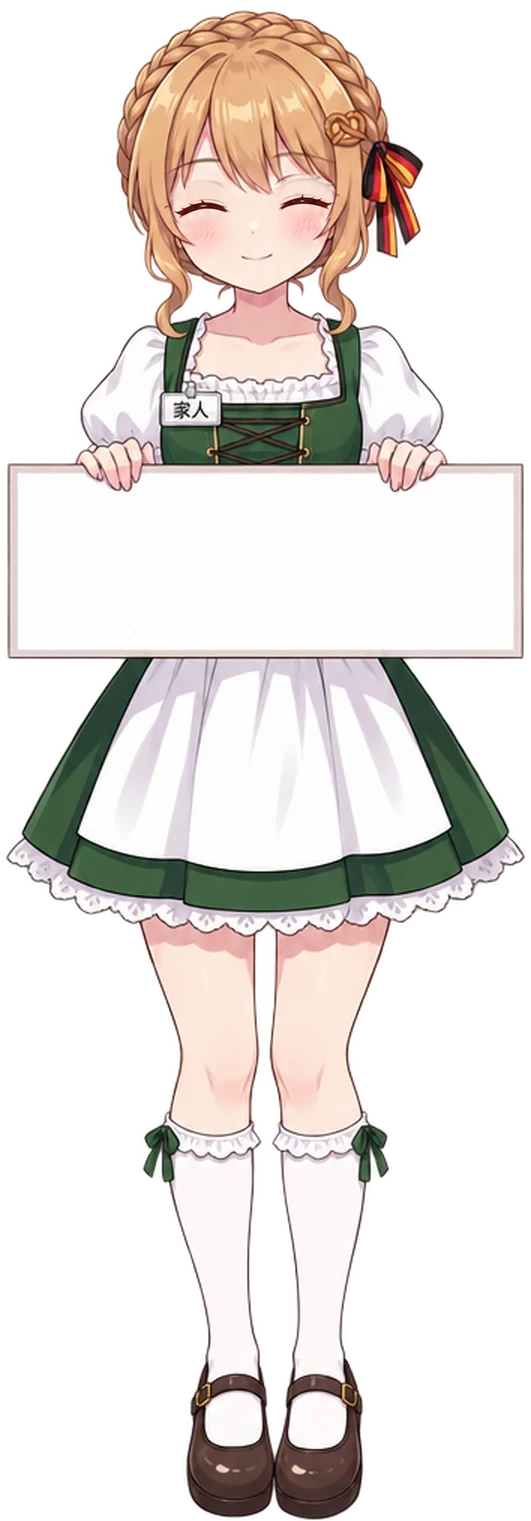
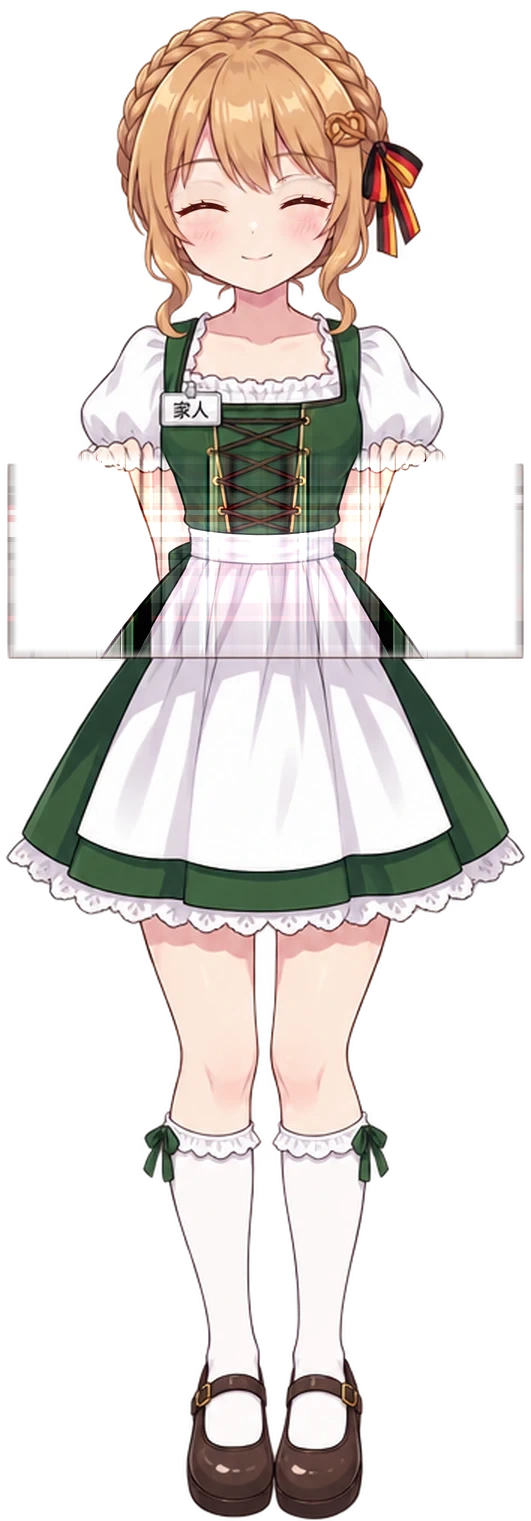
二次元皮肤：立绘去掉手里那块牌子（改由 CSS 看板 + 手层呈现），8 台无人物机用通用人物
- 四台专属立绘换成「无牌」版：人物/姿势/服装/配色/铭牌等设计元素不变，只去掉手里那块白牌子，
  双手保持扶板姿势与高度；仍是一张完整连续整身图；闭眼帧同步。新增通用人物 generic（中性、
  无国别/品牌元素），名单以外的节点统一落到它，12 台在二次元皮肤下都有人物。
- 手蒙版按新图重抠：剔除旧牌子混进手层的白面/灰描边/深棕上沿（否则手上会横着一条线），
  逐像素按同行邻近肤色补色；手层顶部渐入 + 板沿一圈极软接触阴影。
- CSS：看板去掉 2px 实线边框（边框会横穿压在板沿上的手指），改由底色 + 左右极淡过渡 + 落影区分；
  收起态板条 108px（整块盖住原图牌子的位置，不露补画接缝）；看板 min-height 兜底 + 竖向 flex
  铺到卡底；夜版压低一档改为 0.93 + 脚下冷光 + 辅助文字提亮。
- 测试同步：ui-smoke 改判「名单外也要有 generic 立绘」、无边框、夜版 0.93。

Changed region(s): [[0.0, 0.2781, 0.9642, 0.4326], [0.9642, 0.309, 0.9944, 0.4326], [0.904, 0.4017, 0.9341, 0.4326]]

diff --git a/web/anime.css b/web/anime.css
@@ -626,14 +626,30 @@ html[data-skin="anime"] .anime-cast {
 html[data-skin="anime"] .anime-cast[data-cast="jp-nosla-gen2"],
 html[data-skin="anime"] .anime-cast[data-cast="de-nosla-fra"],
 html[data-skin="anime"] .anime-cast[data-cast="us-vmiss-tri"],
-html[data-skin="anime"] .anime-cast[data-cast="us-bwh-dc9"] {
+html[data-skin="anime"] .anime-cast[data-cast="us-bwh-dc9"],
+html[data-skin="anime"] .anime-cast[data-cast="generic"] {
   background-image: var(--cast-art-url);
 }
 
 /* 夜版：人物与双手一起压一档亮度（同一张图、同一套处理，手才不会与手腕断色）。 */
 html[data-skin="anime"][data-theme="dark"] .anime-cast,
 html[data-skin="anime"][data-theme="dark"] .anime-hands {
-  filter: brightness(0.86) saturate(0.94);
+  /* 夜版只轻微压一档：压太狠时深色的鞋 / 裤和夜色糊在一起（gpt 提的对比度问题）。 */
+  filter: brightness(0.93) saturate(0.97);
+}
+
+/* 夜版在她脚下垫一层很淡的冷光：深色鞋 / 裤与夜色之间留出轮廓，不再糊成一片。 */
+html[data-skin="anime"][data-theme="dark"] .node-card[data-cast] {
+  background-image:
+    radial-gradient(58% 42% at 50% 26%, color-mix(in srgb, var(--cast-accent) 18%, transparent), transparent 72%),
+    radial-gradient(74% 34% at 50% 100%, color-mix(in srgb, var(--cast-accent) 16%, transparent), transparent 72%),
+    radial-gradient(92% 36% at 50% 101%, rgb(255 255 255 / 0.28), transparent 78%);
+}
+
+/* 夜版板面上的辅助文字（副标 / 说明）提一档亮度：深板面上灰字对比度偏低。 */
+html[data-skin="anime"][data-theme="dark"] .node-card[data-cast] {
+  --muted: #c2c9dd;
+  --subtle: #9aa3bd;
 }
 
 /* 卡片 = 她站着的那张牌面。浅色下牌子是白面深字，夜版里牌子跟着夜色变深，
@@ -705,9 +721,10 @@ html[data-skin="anime"] .node-card[data-cast="jp-nosla-gen2"] {
   --cast-hands-url: url("/anime/jp-nosla-gen2-hands.webp");   /* 双手层：压在看板上沿的那双手 */
   --cast-top-frac: 0.302614;   /* 牌子上外沿 = 463/1530（立绘高 1530） */
   --cast-bot-frac: 0.438562;   /* 牌子下外沿 = 671/1530 */
-  --cast-figure-h: 636.66px;   /* 图高 = (461 − 3 − 14) / (1 − 0.302614) */
-  --cast-board-top: 201.66px;  /* 板顶 = 12 + 图高 × 0.302614 − 3（板唇） */
-  --cast-plate-h: 92.55px;     /* 板条高 = 图高 × (0.438562 − 0.302614) + 2 × 3 */
+  --cast-figure-h: 626.63px;   /* 图高 = (461 − 3 − 14) / (1 − 0.302614) */
+  --cast-board-top: 195.65px;  /* 板顶 = 12 + 图高 × 0.302614 − 3（板唇） */
+  --cast-board-min: 457.00px;  /* 板面基准高（min-height 兜底；与 app.js BOARD_H 同值） */
+  --cast-plate-h: 108.00px;     /* 板条高 = 图高 × (0.438562 − 0.302614) + 2 × 3 */
   --cast-board: #ffe7f1;
   --cast-cell: rgb(255 255 255 / 0.58);
   --cast-line: #f6b1cc;
@@ -727,9 +744,10 @@ html[data-skin="anime"] .node-card[data-cast="de-nosla-fra"] {
   --cast-hands-url: url("/anime/de-nosla-fra-hands.webp");
   --cast-top-frac: 0.305062;   /* 牌子上外沿 = 464/1521 */
   --cast-bot-frac: 0.426035;   /* 牌子下外沿 = 648/1521 */
-  --cast-figure-h: 639.05px;   /* 图高 = (461 − 3 − 14) / (1 − 0.305062) */
-  --cast-board-top: 203.94px;  /* 板顶 = 12 + 图高 × 0.305062 − 3 */
-  --cast-plate-h: 83.31px;     /* 板条高 = 图高 × (0.426035 − 0.305062) + 2 × 3 */
+  --cast-figure-h: 628.83px;   /* 图高 = (461 − 3 − 14) / (1 − 0.305062) */
+  --cast-board-top: 197.82px;  /* 板顶 = 12 + 图高 × 0.305062 − 3 */
+  --cast-board-min: 457.00px;  /* 板面基准高（min-height 兜底；与 app.js BOARD_H 同值） */
+  --cast-plate-h: 108.00px;     /* 板条高 = 图高 × (0.426035 − 0.305062) + 2 × 3 */
   --cast-board: #fff5e0;
   --cast-cell: rgb(255 255 255 / 0.56);
   --cast-line: #e7cd90;
@@ -749,9 +767,10 @@ html[data-skin="anime"] .node-card[data-cast="us-vmiss-tri"] {
   --cast-hands-url: url("/anime/us-vmiss-tri-hands.webp");
   --cast-top-frac: 0.295635;   /* 牌子上外沿 = 447/1512 */
   --cast-bot-frac: 0.444444;   /* 牌子下外沿 = 672/1512 */
-  --cast-figure-h: 630.35px;   /* 图高 = (461 − 3 − 14) / (1 − 0.295635) */
-  --cast-board-top: 195.35px;  /* 板顶 = 12 + 图高 × 0.295635 − 3 */
-  --cast-plate-h: 99.80px;     /* 板条高 = 图高 × (0.444444 − 0.295635) + 2 × 3 */
+  --cast-figure-h: 620.42px;   /* 图高 = (461 − 3 − 14) / (1 − 0.295635) */
+  --cast-board-top: 189.43px;  /* 板顶 = 12 + 图高 × 0.295635 − 3 */
+  --cast-board-min: 457.00px;  /* 板面基准高（min-height 兜底；与 app.js BOARD_H 同值） */
+  --cast-plate-h: 108.00px;     /* 板条高 = 图高 × (0.444444 − 0.295635) + 2 × 3 */
   --cast-board: #e9f2ff;
   --cast-cell: rgb(255 255 255 / 0.58);
   --cast-line: #aec9ff;
@@ -771,9 +790,10 @@ html[data-skin="anime"] .node-card[data-cast="us-bwh-dc9"] {
   --cast-hands-url: url("/anime/us-bwh-dc9-hands.webp");
   --cast-top-frac: 0.298177;   /* 牌子上外沿 = 458/1536 */
   --cast-bot-frac: 0.427083;   /* 牌子下外沿 = 656/1536 */
-  --cast-figure-h: 632.64px;   /* 图高 = (461 − 3 − 14) / (1 − 0.298177) */
-  --cast-board-top: 197.63px;  /* 板顶 = 12 + 图高 × 0.298177 − 3 */
-  --cast-plate-h: 87.55px;     /* 板条高 = 图高 × (0.427083 − 0.298177) + 2 × 3 */
+  --cast-figure-h: 622.65px;   /* 图高 = (461 − 3 − 14) / (1 − 0.298177) */
+  --cast-board-top: 191.66px;  /* 板顶 = 12 + 图高 × 0.298177 − 3 */
+  --cast-board-min: 457.00px;  /* 板面基准高（min-height 兜底；与 app.js BOARD_H 同值） */
+  --cast-plate-h: 108.00px;     /* 板条高 = 图高 × (0.427083 − 0.298177) + 2 × 3 */
   --cast-board: #fff3dc;
   --cast-cell: rgb(255 255 255 / 0.56);
   --cast-line: #e9c684;
@@ -785,6 +805,30 @@ html[data-skin="anime"] .node-card[data-cast="us-bwh-dc9"] {
   --cast-blink-url: url("/anime/us-bwh-dc9-blink.webp");
   --cast-blink-dur: 5.9s;
   --cast-blink-delay: 1.2s;
+}
+
+/* GENERIC · 通用人物：名单以外的线路机共用这一张中性立绘（无任何国家 / 商家元素）。
+   冷灰蓝牌面 + 极淡圆点；几何与那四台同一套约定，只是上下沿比例按这张画布实测。 */
+html[data-skin="anime"] .node-card[data-cast="generic"] {
+  --cast-art-url: url("/anime/generic.webp");
+  --cast-hands-url: url("/anime/generic-hands.webp");
+  --cast-top-frac: 0.284314;   /* 牌子上外沿 = 435/1530（画布 585×1530） */
+  --cast-bot-frac: 0.421569;   /* 牌子下外沿 = 645/1530 */
+  --cast-figure-h: 610.60px;   /* 图高 = (461 − 6 − 14) / (1 − 0.284314) */
+  --cast-board-top: 179.60px;  /* 板顶 = 12 + 图高 × 0.284314 − 6（板唇） */
+  --cast-board-min: 457.00px;  /* 板面基准高（min-height 兜底；与 app.js BOARD_H 同值） */
+  --cast-plate-h: 108.00px;     /* 收起态板条高（兜底常量；真浏览器里由 layoutCastCards() 写同一值） */
+  --cast-board: #eef1f6;
+  --cast-cell: rgb(255 255 255 / 0.58);
+  --cast-line: #c9d2e2;
+  --cast-track: #dde4ef;
+  --cast-accent: #4a6ea8;
+  --cast-accent-rgb: 74, 110, 168;
+  --cast-motif: radial-gradient(circle at 50% 50%, rgb(74 110 168 / 0.14) 1.3px, transparent 1.6px);
+  --cast-motif-size: 15px 15px;
+  --cast-blink-url: url("/anime/generic-blink.webp");
+  --cast-blink-dur: 6.1s;
+  --cast-blink-delay: 4.0s;
 }
 
 /* 夜版：牌面各自的暗色，纹样用同色系提亮一点；强调色提亮保证在深底上够亮 */
@@ -828,6 +872,16 @@ html[data-skin="anime"][data-theme="dark"] .node-card[data-cast="us-bwh-dc9"] {
   --cast-motif: repeating-linear-gradient(135deg, rgb(224 166 60 / 0.10) 0 5px, transparent 5px 15px);
 }
 
+html[data-skin="anime"][data-theme="dark"] .node-card[data-cast="generic"] {
+  --cast-board: #1a1f2b;
+  --cast-cell: #202636;
+  --cast-line: #2c3448;
+  --cast-track: #242b3c;
+  --cast-accent: #8fb0e8;
+  --cast-accent-rgb: 143, 176, 232;
+  --cast-motif: radial-gradient(circle at 50% 50%, rgb(143 176 232 / 0.10) 1.1px, transparent 1.4px);
+}
+
 /* --------------------------------------------------------------------------
    N+4. ② HTML 看板：板面上排节点数据（**板高由内容决定，板内不滚动**）
 
@@ -850,6 +904,17 @@ html[data-skin="anime"] .node-card[data-cast] {
   padding-bottom: 0;
 }
 
+/* 卡片视图里看板要一路铺到卡片底边：内容少的卡原先比同行最高的卡矮，网格拉伸出来的那十几像素
+   留在卡底（gpt-6.1-sol 看图点名「板没到卡底、GENERIC 底部留白更大」）。把卡壳做成竖向 flex、
+   看板 flex: 1 0 auto，多出来的高度就都给板面。两态结构相同 → 卡外尺寸仍然 Δ0。 */
+html[data-skin="anime"] .node-grid:not(.node-list) .node-card[data-cast] {
+  display: flex;
+  flex-direction: column;
+}
+html[data-skin="anime"] .node-grid:not(.node-list) .node-card[data-cast] .card-body {
+  flex: 1 0 auto;
+}
+
 html[data-skin="anime"] .node-card[data-cast] .card-body {
   position: relative;
   z-index: 2;
@@ -866,15 +931,29 @@ html[data-skin="anime"] .node-card[data-cast] .card-body {
   max-width: none;
   margin: calc(var(--cast-board-top, 201.66px) - 22px) calc((100% + 2px) * 0.03 - 1px) 0;
   height: auto;
+  /* 板面**至少**和基准板高一样高：内容少的线路机板面不会被数据行撑矮，人物缩放才有统一基准
+     （--cast-board-min 与 app.js 的 BOARD_H 必须同值）。内容真的更多时板面照旧往下长。 */
+  min-height: var(--cast-board-min, 457px);
   padding: 10px;
-  border: 2px solid #cdb7b4;
-  border-radius: 14px;
-  background: #fffdfb;
+  /* 板上不再画任何实线边框：手指压在板上沿时，2px 实线会横穿指节（用户 2026-10-10 原话
+     「边框去掉，因为手指会被边框截断」）。板面与卡面靠底色 + 极轻阴影区分；
+     阴影只用 y 偏移 ≥ 模糊半径的一半，上沿以上不会出现任何色带。 */
+  border: 0;
+  border-radius: 15px;
+  background-color: #fffdfb;
+  background-image: linear-gradient(90deg,
+    rgb(74 40 60 / 0.05) 0, rgb(74 40 60 / 0.001) 16px,
+    rgb(74 40 60 / 0.001) calc(100% - 16px), rgb(74 40 60 / 0.05) 100%);
+  box-shadow: 0 18px 22px -16px rgb(64 34 54 / 0.32);
   overflow: hidden;
 }
 html[data-skin="anime"][data-theme="dark"] .node-card[data-cast] .card-body {
-  background: #26242a;
-  border-color: #4b434a;
+  background-color: #2c2933;
+  background-image: linear-gradient(90deg,
+    rgb(255 255 255 / 0.035) 0, rgb(255 255 255 / 0) 16px,
+    rgb(255 255 255 / 0) calc(100% - 16px), rgb(255 255 255 / 0.035) 100%);
+  border: 0;
+  box-shadow: 0 18px 22px -16px rgb(0 0 0 / 0.6);
 }
 
 /* 板内数据区：正常流、不滚动、不裁切。 */
@@ -1017,19 +1096,26 @@ html[data-skin="anime"] .node-card[data-cast][data-rolled="true"] .card-top .car
 html[data-skin="anime"] .node-card[data-cast][data-rolled="true"] .card-body::before {
   content: "";
   position: absolute;
-  left: -2px;
-  right: -2px;
-  top: -2px;
-  height: var(--cast-plate-h, 92.55px);
+  left: 0;
+  right: 0;
+  top: 0;
+  height: var(--cast-plate-h, 108px);
   box-sizing: border-box;
-  border: 2px solid #cdb7b4;
-  border-radius: 14px;
-  background: #fffdfb;
+  border: 0;
+  border-radius: 15px;
+  background-color: #fffdfb;
+  background-image: linear-gradient(90deg,
+    rgb(74 40 60 / 0.05) 0, rgb(74 40 60 / 0.001) 16px,
+    rgb(74 40 60 / 0.001) calc(100% - 16px), rgb(74 40 60 / 0.05) 100%);
+  box-shadow: 0 18px 22px -16px rgb(64 34 54 / 0.32);
   z-index: 0;
 }
 html[data-skin="anime"][data-theme="dark"] .node-card[data-cast][data-rolled="true"] .card-body::before {
-  background: #26242a;
-  border-color: #4b434a;
+  background-color: #2c2933;
+  background-image: linear-gradient(90deg,
+    rgb(255 255 255 / 0.035) 0, rgb(255 255 255 / 0) 16px,
+    rgb(255 255 255 / 0) calc(100% - 16px), rgb(255 255 255 / 0.035) 100%);
+  border: 0;
 }
 
 /* 裸眼 3D：指针在卡上时转一点，人物 / 双手各自多走一点（层间差速）——两层必须走同样的位移，

diff --git a/web/app.js b/web/app.js
@@ -7,7 +7,7 @@ import { applySkin, skinButton } from "./skins.js";
 import { searchMatch } from "./search.js";
 import { carrierMark } from "./carrier-logos.js";
 import { unlockBadge, unlockCatalog, unlockPanel } from "./unlock.js";
-import { castId } from "./anime-cast.js";
+import { castId, foldKey } from "./anime-cast.js";
 import "./ui-select.js";
 
 const app = document.querySelector("#app");
@@ -474,7 +474,7 @@ function saveFolded() {
 // 卡壳上的状态 + 名字那颗按钮的 aria-expanded：折叠开关就是卡片头那颗「绿点 + 名字」按钮。
 function applyFolded() {
   for (const card of document.querySelectorAll(".node-card[data-cast]")) {
-    const rolled = foldedCasts.has(card.dataset.cast);
+    const rolled = foldedCasts.has(card.dataset.foldKey || card.dataset.cast);
     if (rolled) card.dataset.rolled = "true";
     else delete card.dataset.rolled;
     for (const btn of card.querySelectorAll("[data-fold]"))
@@ -492,43 +492,34 @@ function applyFolded() {
 // （这里量不到时——比如 jsdom——就用它）。
 // 收起态板内数据只 visibility:hidden（仍占位），板盒高度恒等于展开态板高，所以两态量出同一个板高。
 const FIG_TOP = 12; // 人物图顶距卡顶的留白（让开卡片上圆角）
-const LIP = 3; // 板唇：板顶压到牌子上外沿之上 3px，吃掉牌子那道 1px 描边与呼吸位移
+const LIP = 6; // 板唇：板顶压到牌子上沿之上 6px（吃掉补画区顶边 + 呼吸位移，板上沿不露线）
+const STRIP_H = 108; // 收起态板条高度：不但要放得下「名字 + 一行 地区·分组」，还必须整块盖住
+// 人物图里被补画过的矩形（原图那块牌子的位置 + 上下留白）—— 补画的像素只要露出来一点就会
+// 在裙摆 / 头发上留下一道直边接缝（gpt-6.1-sol 看图点名）。108px 对所有五台都够（最深的 vmiss 需 105）。
 const GROUND = 14; // 收起态脚下留白（不切鞋）
+const BOARD_H = 457; // 展开态板面**基准**高度（px，与 CSS 的 --cast-board-h 同值）。
+// 立绘缩放必须挂在一个常量上：早先按「板面实测高」算，板高又是内容撑的 —— 内容少的线路机
+// （8 台通用人物里就有）板面只有 330 出头，整张立绘跟着缩到 436px，人变小、板也铺不到卡底。
+// 现在板面有 min-height 兜底，立绘按常量缩放，12 张卡的人物大小与板位完全一致。
 function layoutCastCards() {
   for (const card of document.querySelectorAll(".node-card[data-cast]")) {
     const body = card.querySelector(".card-body");
     if (!body) continue;
-    const boardH = body.offsetHeight; // 数据 visibility:hidden 仍占位 → 等于展开态板高
-    if (!boardH) continue;
     const cs = getComputedStyle(card);
     const topFrac = parseFloat(cs.getPropertyValue("--cast-top-frac")) || 0.3;
-    const botFrac = parseFloat(cs.getPropertyValue("--cast-bot-frac")) || 0.44;
-    const figureH = (boardH - LIP - GROUND) / (1 - topFrac);
+    const figureH = (BOARD_H - LIP - GROUND) / (1 - topFrac);
     const boardTop = FIG_TOP + figureH * topFrac - LIP;
-    const plateH = figureH * (botFrac - topFrac) + 2 * LIP;
+    const plateH = STRIP_H;
     card.style.setProperty("--cast-figure-h", figureH.toFixed(2) + "px");
     card.style.setProperty("--cast-board-top", boardTop.toFixed(2) + "px");
     card.style.setProperty("--cast-plate-h", plateH.toFixed(2) + "px");
   }
 }
-function toggleFolded(cast) {
-  // 非立绘卡片沿用同一名字按钮及事件入口，不进入立绘卷轴逻辑。
-  if (String(cast).startsWith("node-id:")) {
-    for (const btn of document.querySelectorAll(".node-card .fold-name[data-fold]")) {
-      if (btn.dataset.fold !== cast) continue;
-      const card = btn.closest(".node-card");
-      const body = card?.querySelector(".card-body > [id]");
-      if (!body || body.id !== btn.getAttribute("aria-controls")) continue;
-      const folded = !body.hidden;
-      body.hidden = folded;
-      const actions = card.querySelector(".card-top .card-actions");
-      if (actions) actions.hidden = folded;
-      btn.setAttribute("aria-expanded", String(!folded));
-    }
-    return;
-  }
-  if (!cast) return;
-  foldedCasts.has(cast) ? foldedCasts.delete(cast) : foldedCasts.add(cast);
+function toggleFolded(key) {
+  // 所有卡都有人物了（名单外的落到通用人物 "generic"），收起 / 展开走同一套：只翻那把钥匙。
+  // 通用人物的多张卡各用各的节点 id（见 anime-cast.js 的 foldKey），折叠互不牵连。
+  if (!key) return;
+  foldedCasts.has(key) ? foldedCasts.delete(key) : foldedCasts.add(key);
   saveFolded();
   applyFolded();
 }
@@ -590,7 +581,7 @@ const cardShell = (n, inner) => {
   // 卡片自己读不到它的 data-cast，而皮肤样式表要按角色给整张牌面上色
   // （`.node-card[data-cast="…"]`），所以这里再挂一份——两处都由 castId() 出，不会漂。
   const cast = castId(n);
-  return `<article class="node-card ${n.online ? "is-online" : "is-offline"}" data-node="${n.id}"${cast ? ` data-cast="${cast}"` : ""}>${inner}</article>`;
+  return `<article class="node-card ${n.online ? "is-online" : "is-offline"}" data-node="${n.id}" data-cast="${cast}" data-fold-key="${foldKey(n)}">${inner}</article>`;
 };
 
 function card(n) {
@@ -901,6 +892,7 @@ function gridInner(n) {
   // data-bleed = 通铺到卡片边框的装饰层：允许越过卡片内边距（被 overflow: hidden 裁掉是设计意图），
   // 但越过边框 Box 就还是越界——scripts/card-overflow-check.mjs 按这个标记区分。
   const cast = castId(n);
+  const fkey = foldKey(n);
   const figure = cast
     ? `<div class="anime-cast" data-cast="${cast}" data-bleed role="img" aria-label="线路机角色立绘"><span class="anime-blink" data-bleed aria-hidden="true"></span></div>`
     : "";
@@ -908,7 +900,7 @@ function gridInner(n) {
   // 头部：状态点 + 名字 + 折叠箭头合成**一颗**按钮。点与箭头都绝对定位在两端，名字的横向中心
   // 不被它们挤动——收起 / 展开时名字落在同一坐标（折叠只影响板面上其余的内容/数据）。
   const cardTop =
-    `<div class="card-top"><button class="fold-name" type="button" data-fold="${cast || `node-id:${n.id}`}" aria-expanded="true" aria-controls="body-${n.id}">` +
+    `<div class="card-top"><button class="fold-name" type="button" data-fold="${fkey}" aria-expanded="true" aria-controls="body-${n.id}">` +
     `<span class="node-dot ${n.online ? "" : "offline"}"></span>` +
     `<span class="fold-name-text">${esc(n.name)}</span>` +
     `<span class="fold-caret" aria-hidden="true">${FOLD_ICON}</span>` +

diff --git a/web/anime-cast.js b/web/anime-cast.js
@@ -35,6 +35,16 @@ export const CAST = {
     crew: "搬瓦工",
     note: "洛杉矶 DC9：CN2GIA + 9929 + CMIN2（159–167ms）。卖家搬瓦工（BandwagonHost）官网是金黄→琥珀渐变 #FFC107→#F57C00 配深棕/黑与银灰 HOST、黑机架 + 金色灯；人物 = 琥珀棕高马尾 + 银灰挑染 + 金瞳 + 咧嘴露虎牙（唯一的高马尾、唯一工装背带裤、唯一趴在牌上的姿势），深棕背带裤 + 大篷车轮发夹 + 星条缎带 + 金星别针，胸口铭牌写 Bandwagon",
   },
+  // 通用人物：线路身份 × 商家气质都定不出形象的节点（名单以外）统一落到这一张中性立绘，
+  // 于是二次元皮肤下所有机器都有人物、观感统一。中性设计、不带任何国家/商家元素，
+  // 画布 / 缩放 / 手位与那四台同一套约定（共用同一份 CSS 几何变量）。由 castId() 兜底。
+  "generic": {
+    id: "generic",
+    line: "",
+    vendor: "",
+    crew: "",
+    note: "通用默认人物：深棕长直发 + 白衬衫 + 藏青百褶裙，中性日常、无任何国家 / 商家元素；整身立绘 + 手蒙版 + 闭眼帧同一套约定。",
+  },
 };
 
 // 有立绘的节点才画人物：名字（大小写不敏感、去首尾空格）在名单里即可。
@@ -43,6 +53,15 @@ export function castOf(node) {
   return CAST[key] || null;
 }
 
+// 画哪张立绘：名单里的用自己的，名单以外的统一落到通用人物 "generic"。
+// 名字里有独立形象的四台仍返回自己的 id，别处的判断（折叠键、牌面配色）都不受影响。
 export function castId(node) {
-  return castOf(node)?.id || "";
+  return castOf(node)?.id || "generic";
+}
+
+// 折叠状态用哪把钥匙：四台专属立绘仍用自己的 id（沿用既有 localStorage 记录），
+// 通用人物的多张卡各用各的节点 id —— 否则点一张会连带收起其它所有通用卡。
+export function foldKey(node) {
+  const c = castOf(node);
+  return c ? c.id : "node-id:" + (node?.id ?? "");
 }
